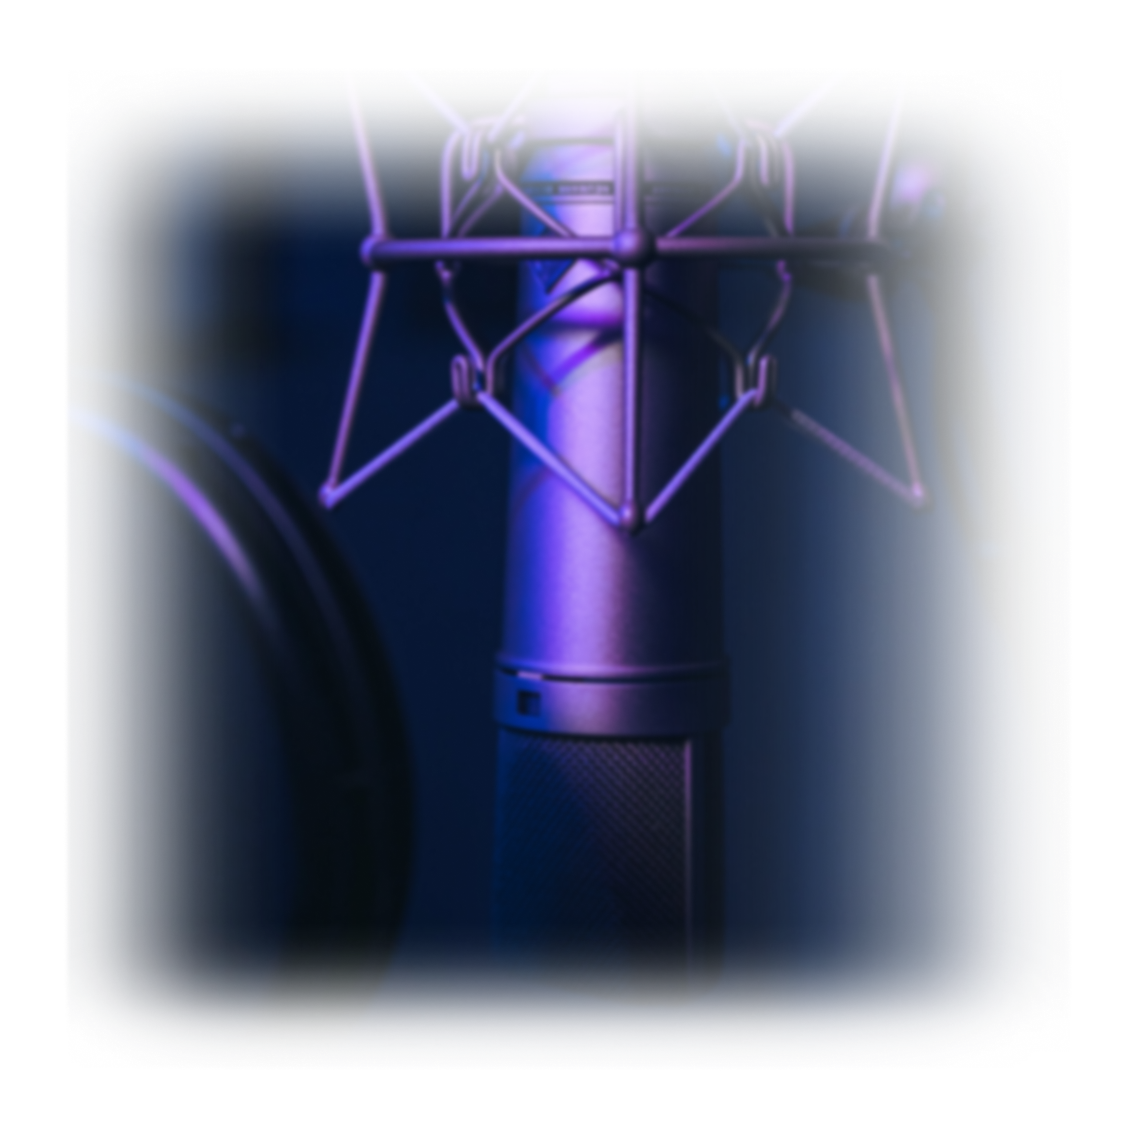
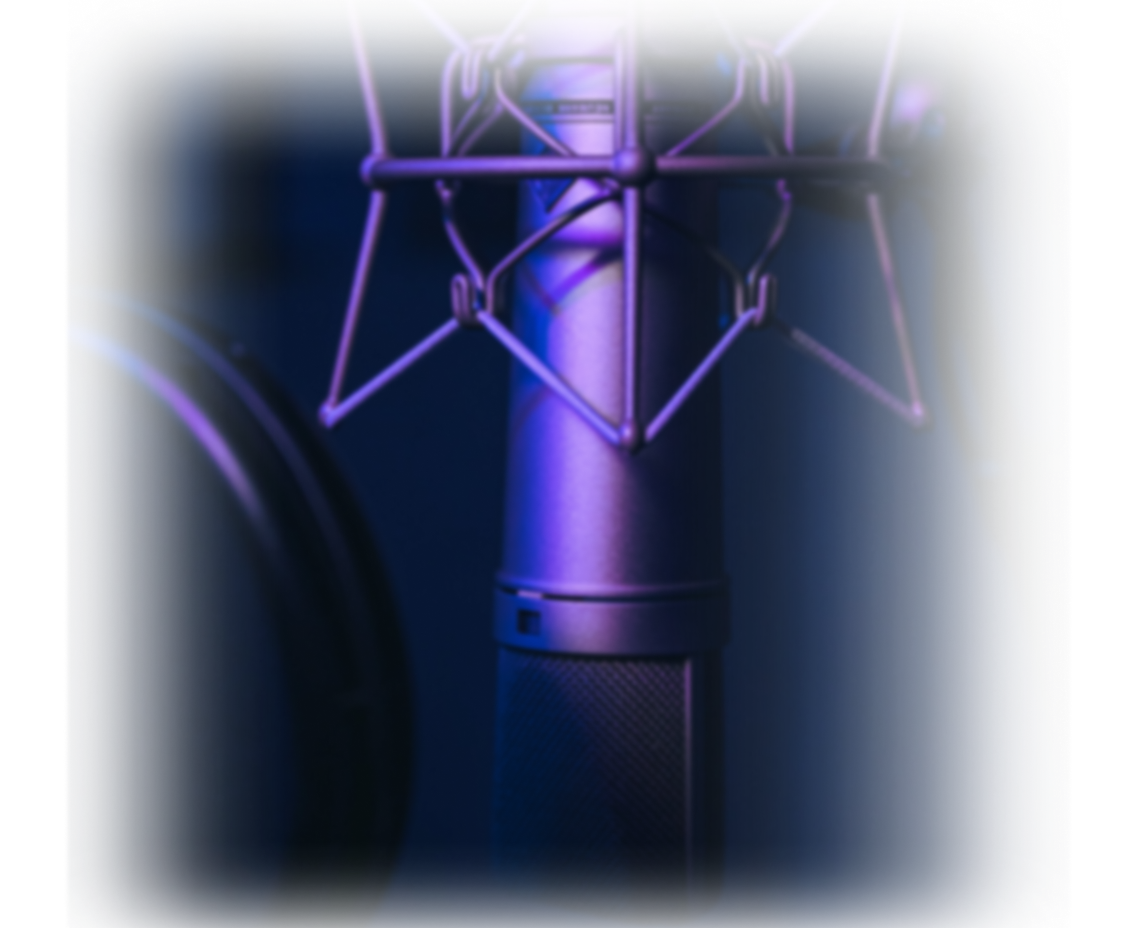
...

diff --git a/Projeto2/styles.css b/Projeto2/styles.css
@@ -18,20 +18,15 @@ main#interface{
 section{
     grid-column: 1;
     margin: 0 auto;
-
 }
+
 
 img#logo{
     width: 200px;
-    padding-top: 50px;
 }
 
 aside{
     grid-column: 2;
-    
 }
 
-img{
-    width: 100%;
-    height: 800px;
-}
+
